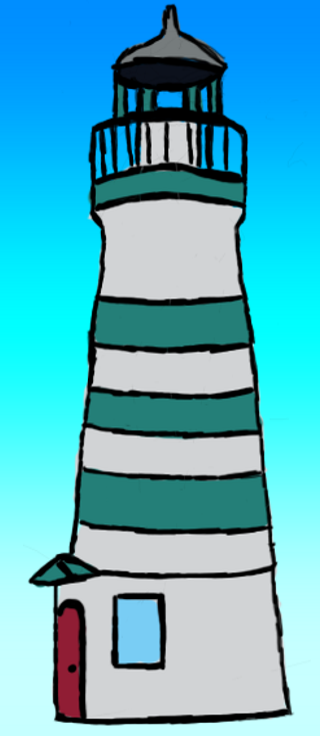
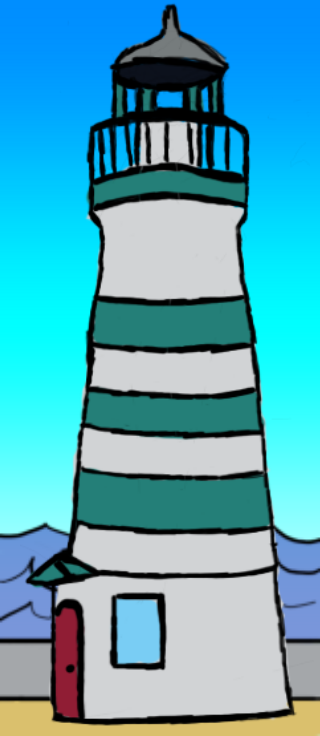
lighthouse animation

Changed region(s): [[0.0, 0.0625, 1.0, 1.0], [0.3438, 0.8125, 0.375, 0.9062]]

diff --git a/scr/scenes/play.js b/scr/scenes/play.js
@@ -78,7 +78,7 @@ class Play extends Phaser.Scene {
         }
 
         this.shop = this.add.sprite(0, 736, "shopUI").setOrigin(0);
-        this.lightHouse = this.add.sprite(1280, 0, "light house").setOrigin(0);
+        this.lightHouse = this.add.sprite(1280, 0, "light house", 0).setOrigin(0);
         this.pescotti = this.add.sprite(20, 736, "pescotti pool").setOrigin(0).setScale(0.70);
         this.bag = this.add.sprite(943, 750, "bagbear", 0).setOrigin(0).setScale(0.65);
         this.star = this.add.sprite(1300, 530, "star", 0).setOrigin(0.5,0);
@@ -202,27 +202,27 @@ class Play extends Phaser.Scene {
 
             if (this.stats.score >= 50 && this.stats.score < 100) {
                 if(this.star.y != 485)
-                    this.playStarTweens(485, "Associate");
+                    this.titleRankUp(485, "Associate");
             }
             else if (this.stats.score >= 100 && this.stats.score < 150) {
                 if(this.star.y != 440)
-                    this.playStarTweens(440, "Soldier");
+                    this.titleRankUp(440, "Soldier");
             }
             else if (this.stats.score >= 150 && this.stats.score < 200) {
                 if(this.star.y != 395)
-                    this.playStarTweens(395, "Caporegime");
+                    this.titleRankUp(395, "Caporegime");
             }
             else if (this.stats.score >= 200 && this.stats.score < 250) {
                 if(this.star.y != 355)
-                    this.playStarTweens(355, "Underboss");
+                    this.titleRankUp(355, "Underboss");
             }
             else if (this.stats.score >= 250 && this.stats.score < 300) {
                 if(this.star.y != 310)
-                    this.playStarTweens(310, "Consigliere");
+                    this.titleRankUp(310, "Consigliere");
             }
             else if (this.stats.score >= 300 && this.stats.score < 350) {
                 if(this.star.y != 265)
-                    this.playStarTweens(265, "Boss");
+                    this.titleRankUp(265, "Boss");
             }
         }
 
@@ -240,7 +240,7 @@ class Play extends Phaser.Scene {
         }
     }
 
-    playStarTweens(yValue, title) {
+    titleRankUp(yValue, title) {
         this.tweens.add({
             targets: this.star,
             y: { from: this.star.y, to: yValue },
@@ -249,6 +249,7 @@ class Play extends Phaser.Scene {
             duration: 1500,
         });
         this.starTweenGrow.play();
+        this.lightHouse.play('light up');
         this.stats.title = title;
     }
 
@@ -264,6 +265,11 @@ class Play extends Phaser.Scene {
 
     //defines all the animations used in play.js
     createAnimations() {
+        //lighthouse anim
+        this.anims.create({ //question symbol appear above farmer when he's chasing
+            key: 'light up', duration: 1000, repeat: 2, yoyo: true,
+            frames: this.anims.generateFrameNames('light house', { first: 0, end: 1}),
+        });
         //pescotti poof anim
         this.anims.create({
             key: 'poof anim', frameRate: 6, repeat: 0,

diff --git a/scr/scenes/load.js b/scr/scenes/load.js
@@ -49,11 +49,12 @@ class Load extends Phaser.Scene {
         //other UI assets
         this.load.image("hole", "hole.png");
         this.load.image("covered hole", "covered hole.png");
-        this.load.image("light house", "lighthouse_wbackground.png");
         this.load.image("bag", "bag.png");
         this.load.image("shopUI", "shopUI.png");
         this.load.image("field_set", "tileset.png");
         this.load.image("star", "star.png");
+        this.load.atlas('light house', 'lightup.png', 'lightup.json', 
+        Phaser.Loader.TEXTURE_ATLAS_JSON_HASH);
 
         //scene images
         this.load.image("win-screen", "win-screen.png");
